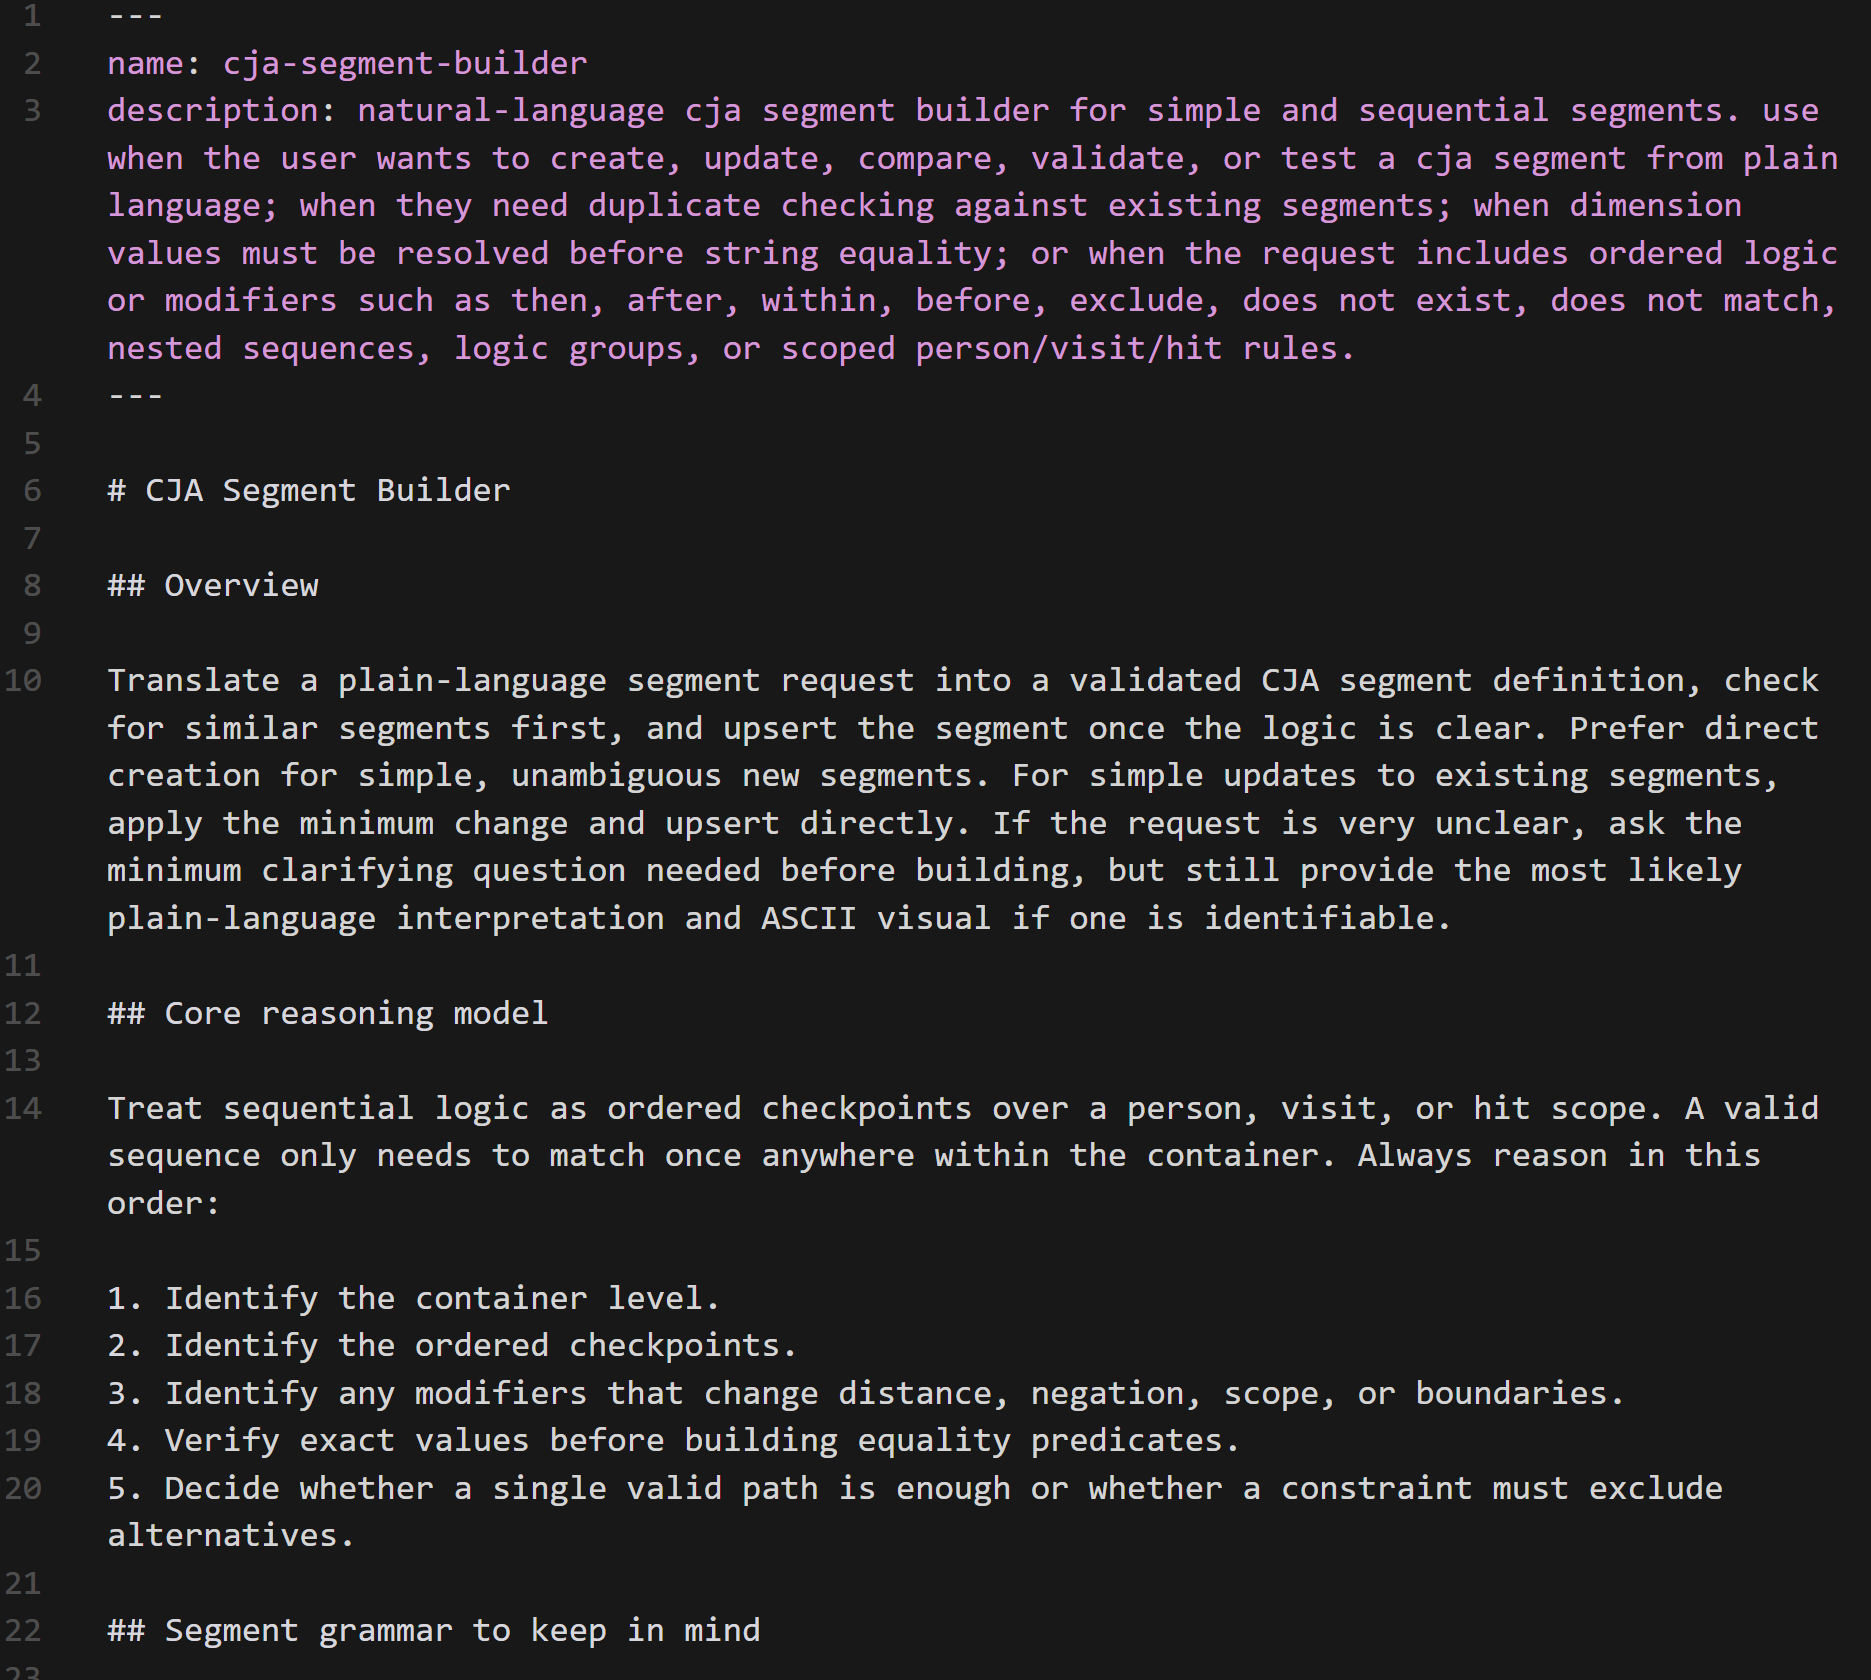
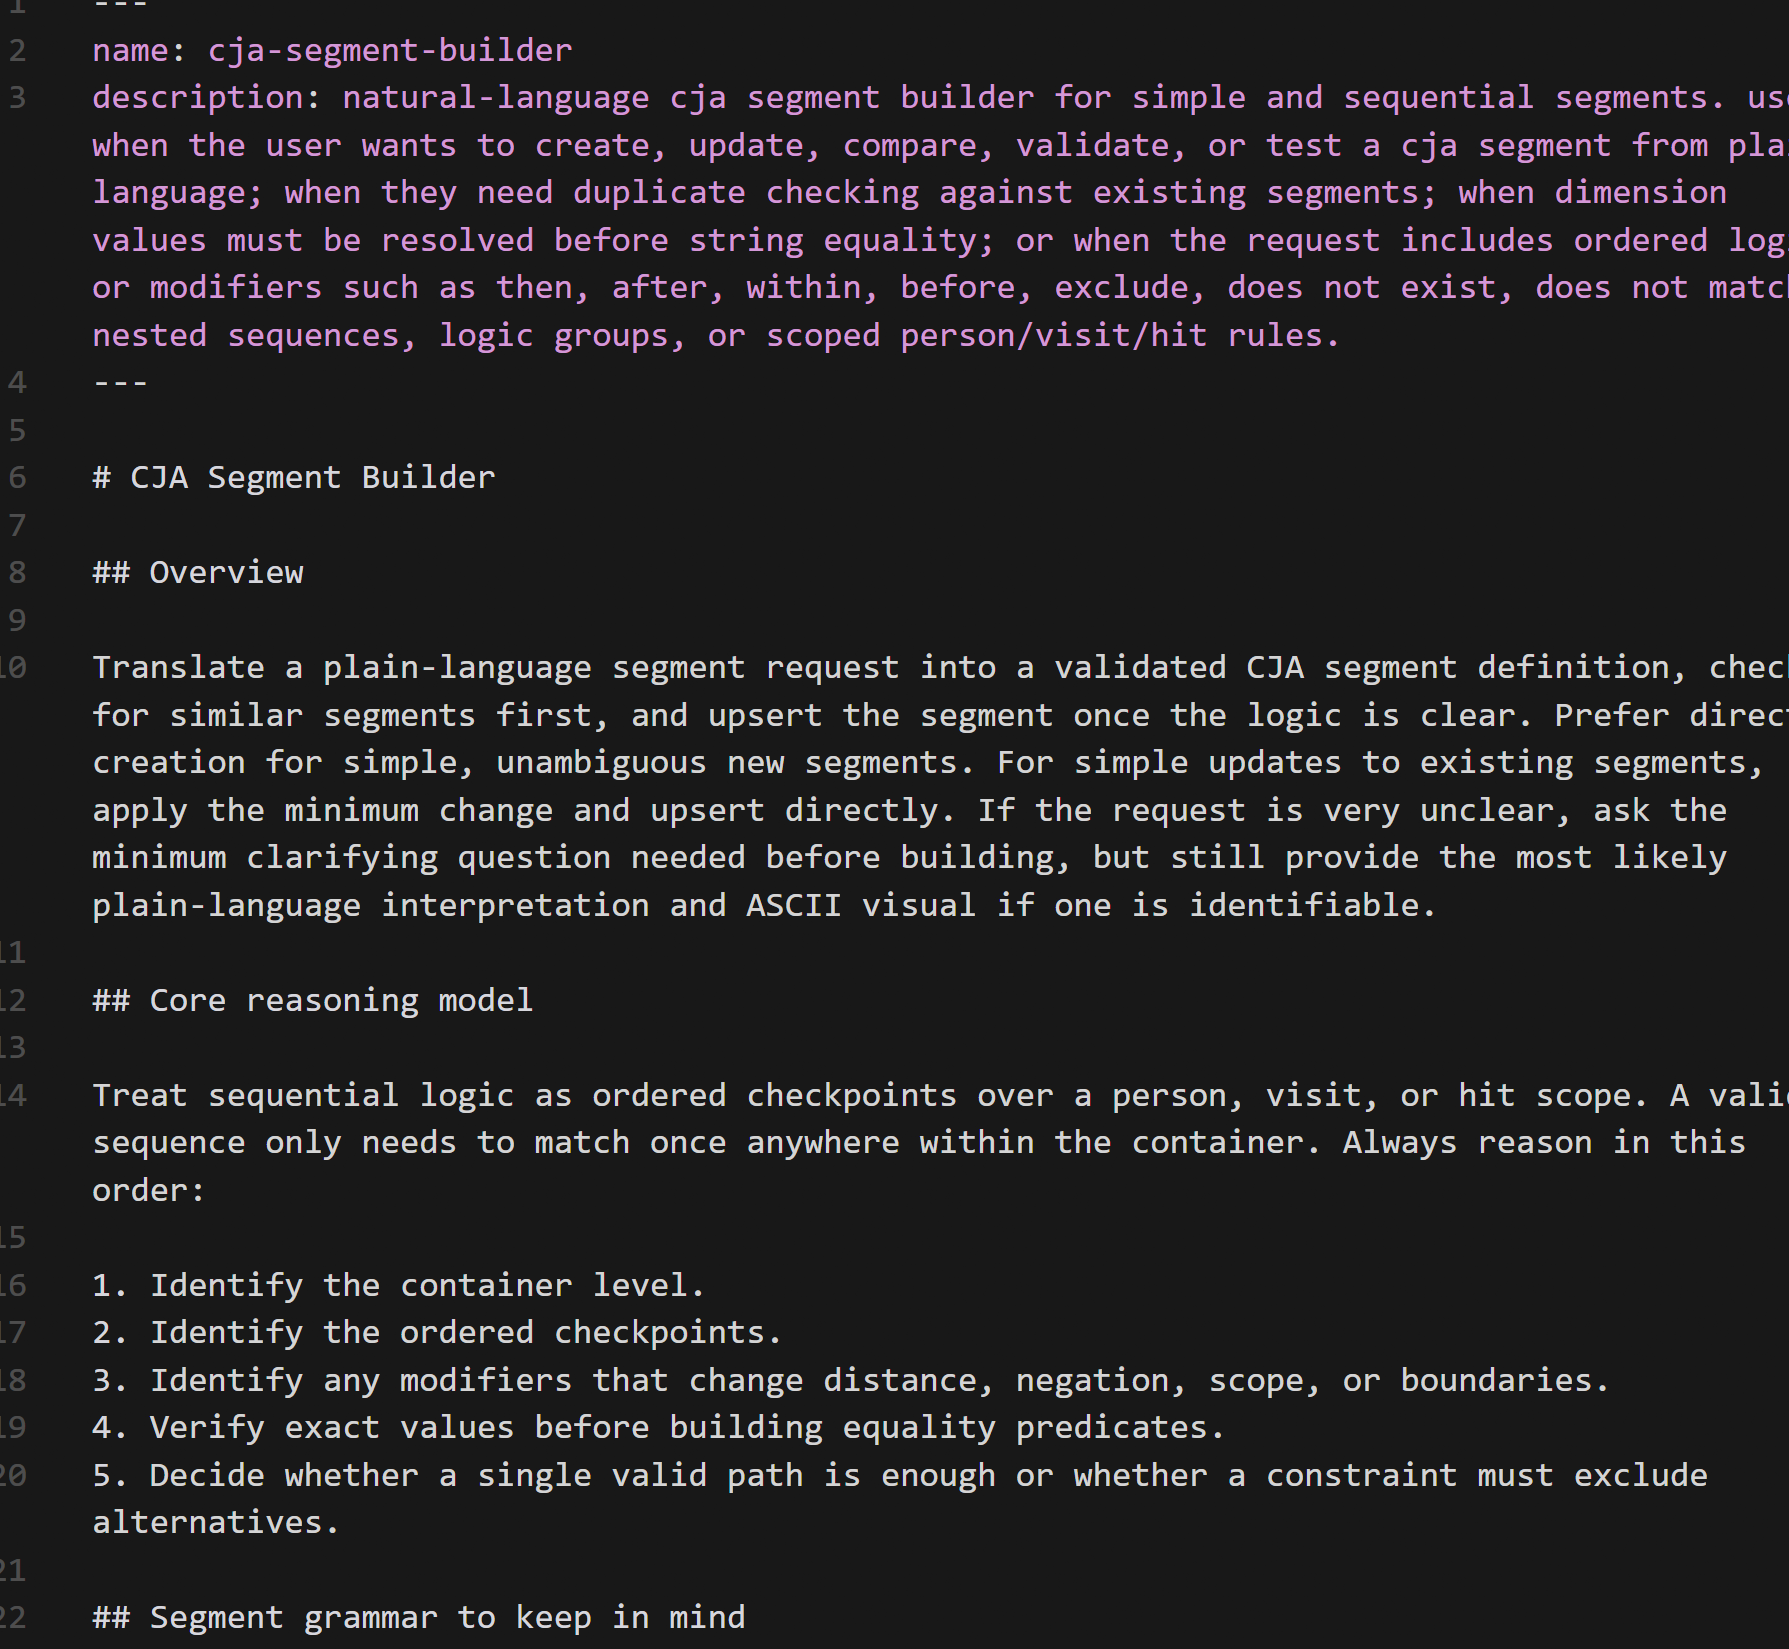
docs: README updates; refresh lesson 2 screenshots
Made-with: Cursor

diff --git a/README.md b/README.md
@@ -126,14 +126,13 @@ Now, Cursor should say some positive comments about being connected. If so, you 
 What data views can I access?
 ```
 
+<img width="461" height="151" src="assets/setup/Screenshot 2026-04-03 152418.png" />
+
 If Cursor returns a small list including the L611 data view, then you are ready! 
 
 > **Note:** On first runs of MCP tools, Cursor will prompt you to run each tool. This will happen frequently as we begin. Please click the dropdown and select *Run Everything* and then click *Run*. 
 
 <img src="assets\setup\Screenshot 2026-04-20 110004.png">
-
-<img width="461" height="151" src="assets/setup/Screenshot 2026-04-03 152418.png" />
-
 
 *You are done with MCP setup in! Leave the Cursor app alone until we get to the MCP tasks after Data Mirror.*
 
@@ -596,19 +595,23 @@ Hopefully, your result takes only a minute or two. The timing and result will va
 
 > **Tip:** Be specific in your prompts. Whenever possible, use clear time ranges ("last 30 days"), metric names ("orders", "revenue"), and dimensions ("product category") when you know them.
 
-7. Request a *component survey* project:
+7. Request a *component survey*:
+
+This prompt relies on a skill we have named `cja-dimension-survey`. It creates an organized project view of *n* dimensions, starting with the most frequently used components. It skips generic time or out-of-the-box dimensions and emphasizes non-null dimensions.
+
+> **Note:** This will take some minutes to run. Continue the hands-on lab by opening new agent chat windows when necessary.
 
 ```
 Build a survey for the top 9 dimensions in L611.
 ```
 
-> **Note:** This will take a few minutes to run. We will continue into the lab, so you may open a new agent chat while this runs.
+Frequently supporting new customers and unknown data views, I wanted a quick survey of the data environment. Doing this for many dimensions becomes tedious or impossible to recreate. I have successfully run this type of skill for up to 60 dimensions. On the CJA definition gets "large", it is harder to manage in a single skill / agent definition.
 
-This uses a skill named *dimension survey*. It creates an organized project view of n dimensions, starting with the most frequently used components. It skips generic time or out-of-the-box dimensions and emphasizes non-null dimensions.
+Here is a small [sample](https://experience.adobe.com/#/@experienceshowcase/platform/analytics/#/workspace/edit/69e57488c9a2b873047b2591) built to study the top 8 dimensions. Some have no data in the recent date range, so they are listed in a separate panel at the bottom.
 
-Frequently supporting new customers and unknown data views, I wanted a quick survey of the data environment. Doing this for many dimensions becomes tedious or impossible to recreate. I have successfully run this skill for up to 60 dimensions.
+<img src="assets\lesson-2\Screenshot 2026-04-20 113101.png">
 
-> **Note:** This is a product of iterative conversations. Build a draft, request changes, update the skill, try again. As CJA projects grow in size and take more of the context window, it becomes harder for an MCP to stay on track. Keep skills thin and efficient for success.
+> **Note:** This is a product of *iterative conversations*. Build a draft, request changes, update the skill, try again. As CJA projects grow in size and take more of the context window, it becomes harder for an MCP to stay on track. Keep skills thin and efficient for success.
 
 ### 2.5 Checkpoint
 